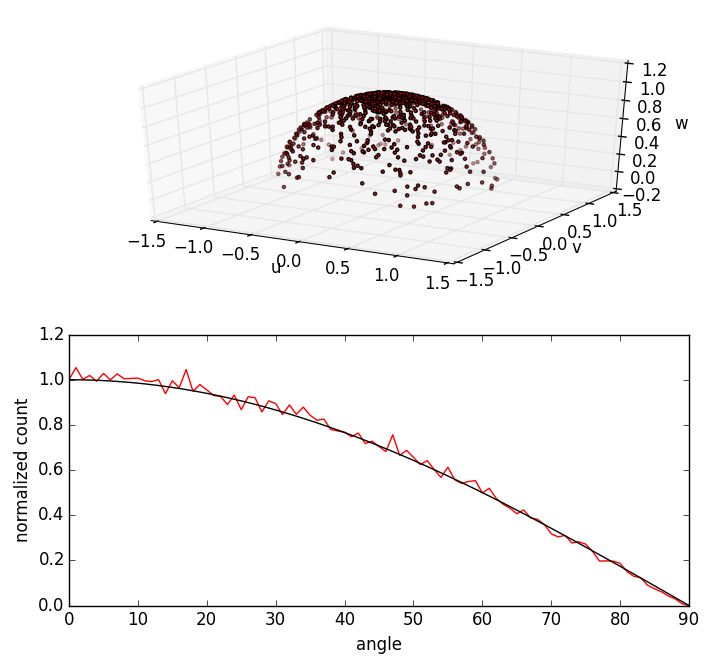
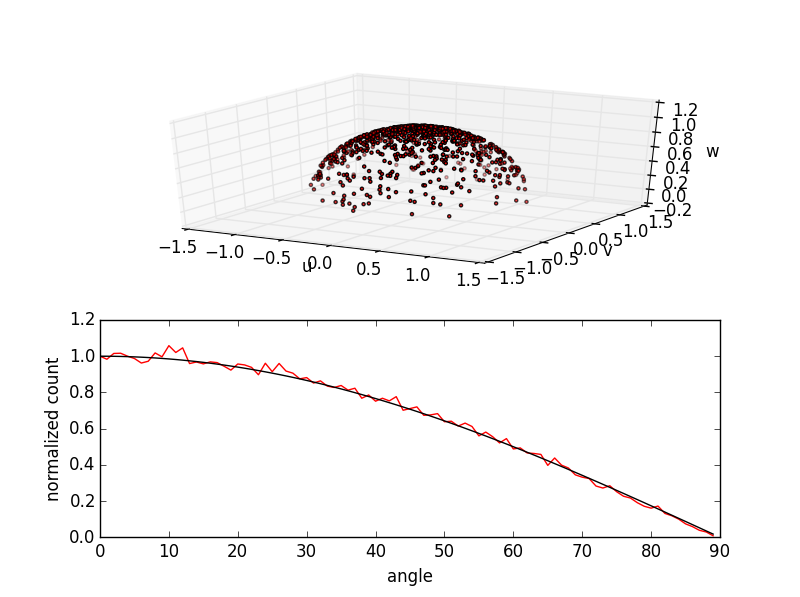
changes to bins

Changed region(s): [[0.0, 0.0905, 0.9791, 0.995]]

diff --git a/cosine/cosine.py b/cosine/cosine.py
@@ -17,7 +17,7 @@ w = []
 
 count = []
 bin_theta = []
-nbins = 91
+nbins = 90
 delta_bin = 90/(nbins-1)
 
 #surface properties

diff --git a/cosine/random3.py b/cosine/random3.py
@@ -18,7 +18,7 @@ w = []
 
 count = []
 bin_theta = []
-nbins = 91
+nbins = 90
 delta_bin = 90/(nbins-1)
 
 #surface properties
